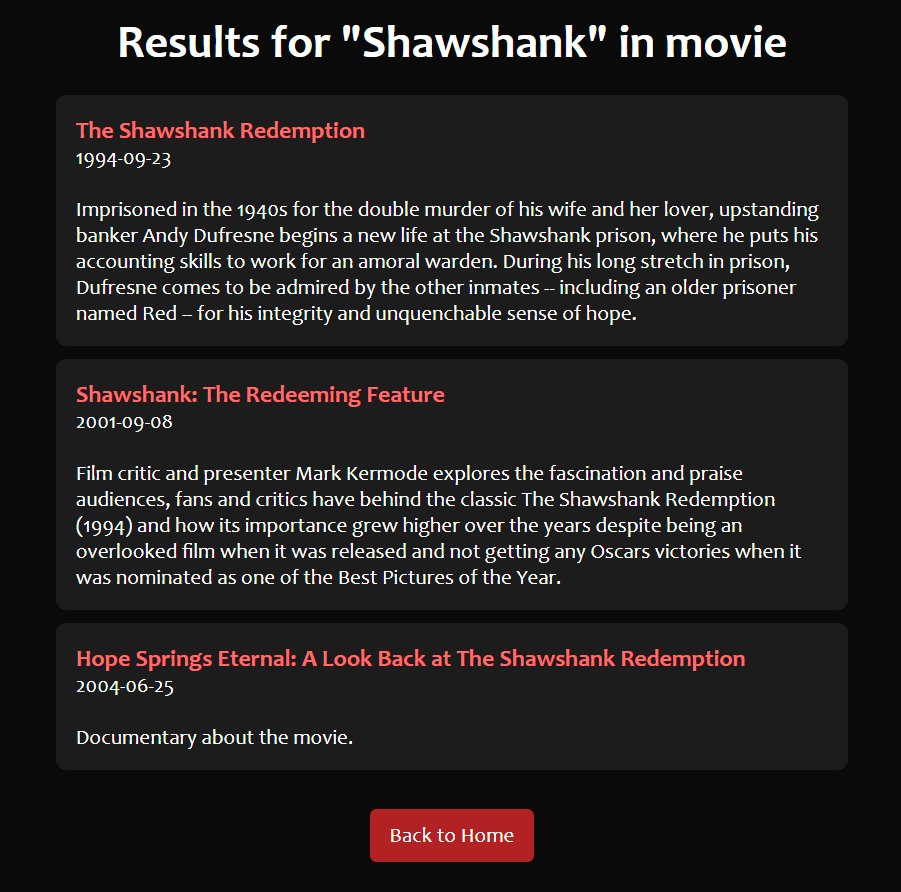
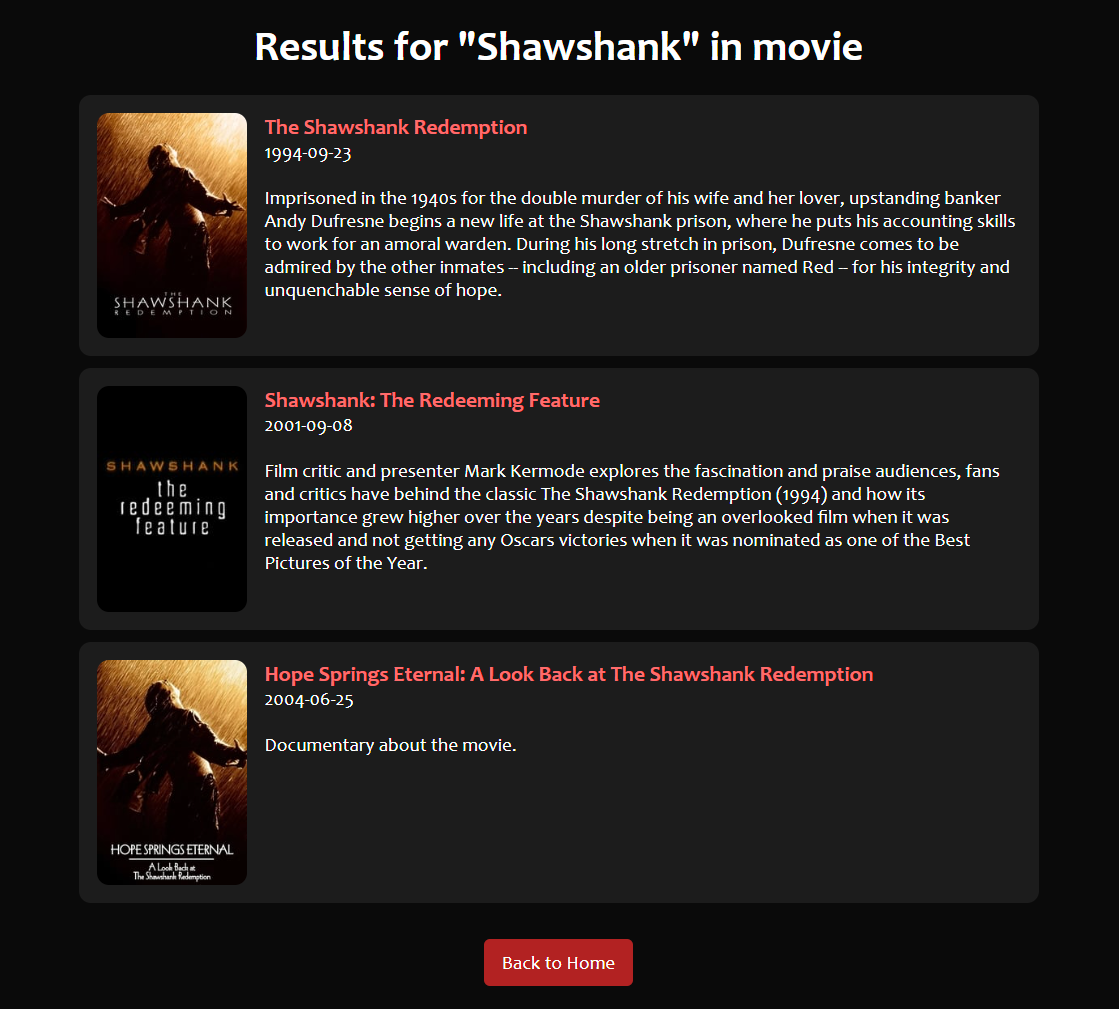
Added posters to results page

Changed region(s): [[0.0622, 0.0908, 0.9323, 0.8778], [0.1243, 0.0303, 0.8701, 0.0605], [0.404, 0.9081, 0.5905, 0.9989]]

diff --git a/client/templates/results.html b/client/templates/results.html
@@ -39,16 +39,35 @@
             <ul>
                 {% for item in results %}
                     {% if category == "movie" %}
-                        <a href="{{ url_for('movie', movie_id=item.id)}}"><li>
-                            <strong>{{ item.title }}</strong> <br> {{ item.get('release_date', 'N/A') }} <br><br> {{ item.get('overview', 'N/A') }}
-                        </li></a>
+                        
+                            <li>
+                                <a href="{{ url_for('movie', movie_id=item.id)}}">
+                                    {% if item.poster_path %}
+                                        <img src="https://image.tmdb.org/t/p/w185{{ item.poster_path }}" alt="{{ item.title }} Poster">
+                                    {% endif %}
+                                    <strong>{{ item.title }}</strong> <br> 
+                                    {{ item.get('release_date', 'N/A') }} <br><br> 
+                                    {{ item.get('overview', 'N/A') }}
+                                </a>
+                            </li>
+                        
                     {% elif category == "tv" %}
                         <li>
-                            <strong>{{ item.name }}</strong> <br> {{ item.get('first_air_date', 'N/A') }} <br><br> {{ item.get('overview', 'N/A') }}
+                            {% if item.poster_path %}
+                                <img src="https://image.tmdb.org/t/p/w185{{ item.poster_path }}" alt="{{ item.name }} Poster">
+                            {% endif %}
+                            <strong>{{ item.name }}</strong> <br> 
+                            {{ item.get('first_air_date', 'N/A') }} <br><br> 
+                            {{ item.get('overview', 'N/A') }}
                         </li>
                     {% elif category == "person" %}
                         <li>
-                            <strong>{{ item.name }}</strong> <br> {{ item.get('known_for_department', 'Unknown') }} <br><br> Known for: {{ item['known_for'][0].get('title', 'N/A') }}
+                            {% if item.profile_path %}
+                                <img src="https://image.tmdb.org/t/p/w185{{ item.profile_path }}" alt="{{ item.name }}">
+                            {% endif %}
+                            <strong>{{ item.name }}</strong> <br> 
+                            {{ item.get('known_for_department', 'Unknown') }} <br><br> 
+                            Known for: {{ item['known_for'][0].get('title', item['known_for'][0].get('name', 'N/A')) }}
                         </li>
                     {% endif %}
                 {% endfor %}

diff --git a/client/static/results.css b/client/static/results.css
@@ -46,8 +46,8 @@
       background-color: #1c1c1c;
       padding: 15px;
       margin: 10px auto;
-      border-radius: 8px;
-      max-width: 600px;
+      border-radius: 10px;
+      max-width: 800px;
       text-align: left;
       transition: transform 0.3s ease;
   }
@@ -81,4 +81,18 @@
   h1 {
     margin-top:5vh;
     font-size:35px;
+  }
+
+  li img {
+    float: left;
+    width: 125px;
+    height: auto;
+    margin-right: 15px;
+    border-radius: 10px;
+  }
+  
+  li::after {
+    content: "";
+    display: table;
+    clear: both;
   }
